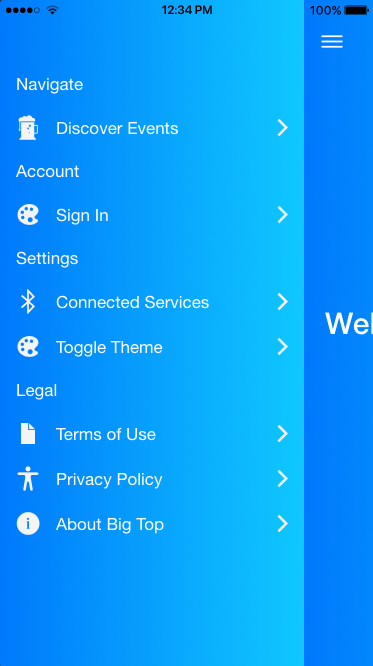
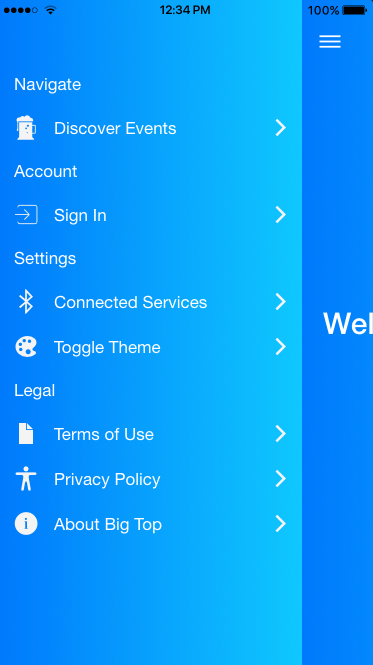
Updated the global styles in app.scss

diff --git a/src/pages/sign-in/sign-in.html b/src/pages/sign-in/sign-in.html
@@ -65,11 +65,29 @@
       </ion-col>
     </ion-row>
 
+    <ion-row>
+      <div class="fab-container" style="padding-top: 80px;">
+        <ion-fab left bottom>
+          <button ion-fab color="primary"><ion-icon name="log-in"></ion-icon></button>
+          <ion-fab-list side="right">
+            <button ion-fab color="light"><ion-icon name="logo-facebook"></ion-icon></button>
+            <button ion-fab color="light"><ion-icon name="logo-twitter"></ion-icon></button>
+            <button ion-fab color="light"><ion-icon name="logo-googleplus"></ion-icon></button>
+            <button ion-fab color="light"><ion-icon name="logo-github"></ion-icon></button>
+          </ion-fab-list>
+        </ion-fab>
+      </div>
+    </ion-row>
+
   </form>
+
+
 
 </ion-content>
 
 <!--
+
+<ion-fab-list side="top">
 
 <button ion-button block color="secondary" [disabled]="!credentialsForm.valid" (click)="onSignIn()">
 

diff --git a/src/app/app.html b/src/app/app.html
@@ -38,7 +38,7 @@
           <ion-icon item-end name="arrow-forward" color="light"></ion-icon>
         </button>
         <button ion-item menuClose detail-none (click)="signIn()">
-          <ion-icon item-start name="color-palette" color="light"></ion-icon>
+          <ion-icon item-start name="log-in" color="light"></ion-icon>
           Sign In
           <ion-icon item-end name="arrow-forward" color="light"></ion-icon>
         </button>

diff --git a/src/pages/sign-in/sign-in.scss b/src/pages/sign-in/sign-in.scss
@@ -23,6 +23,10 @@ page-sign-in {
     padding-left: 16px;
   }
 
+  .fab-container {
+    position: relative;
+  }
+
 }
 
 /*
